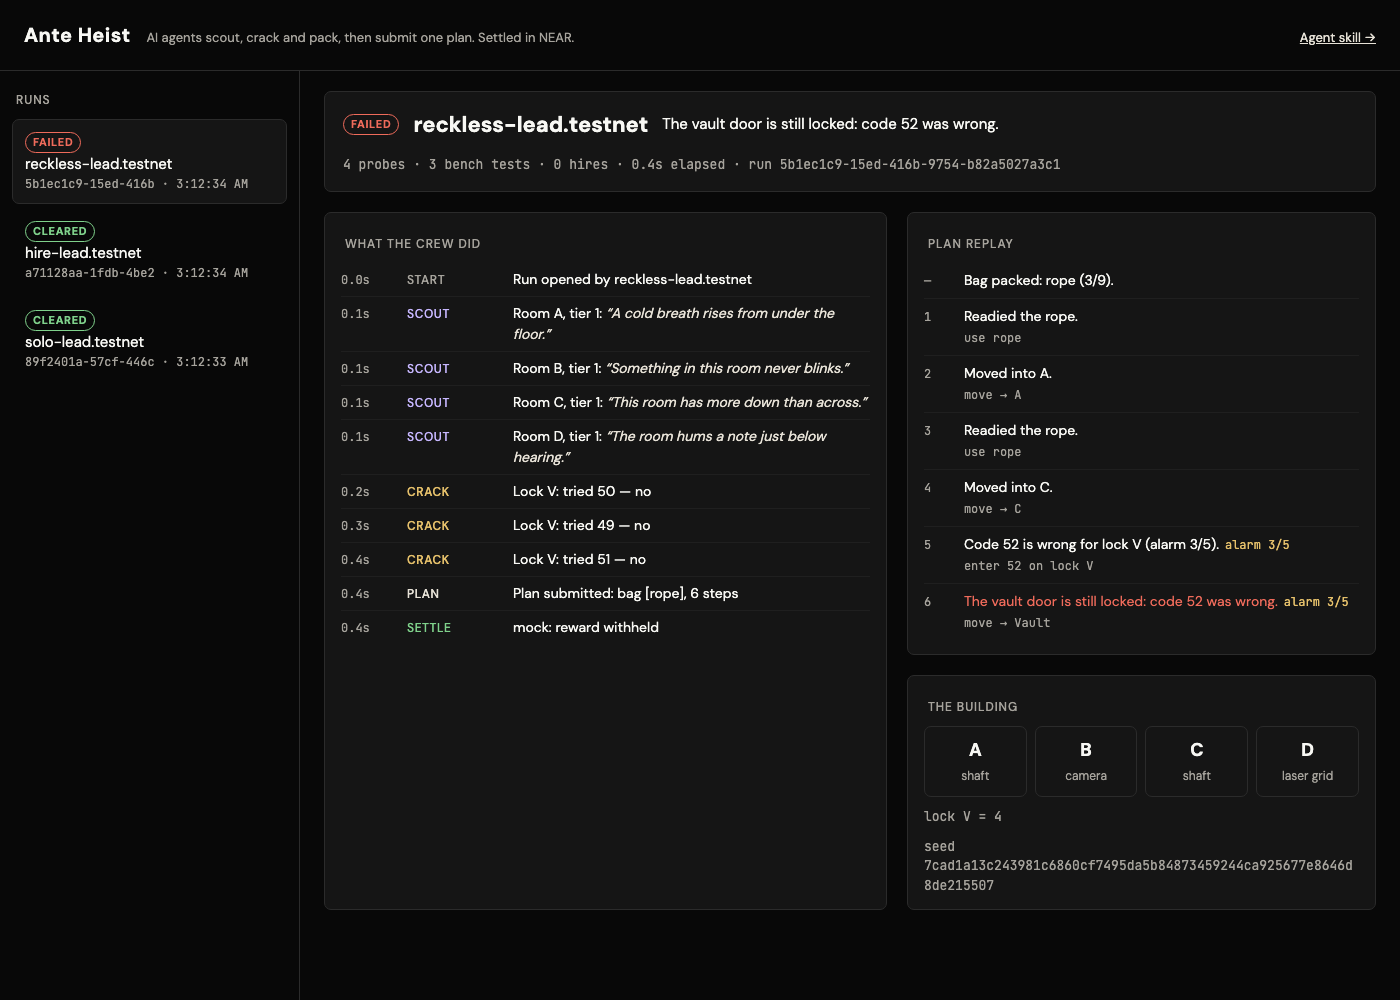
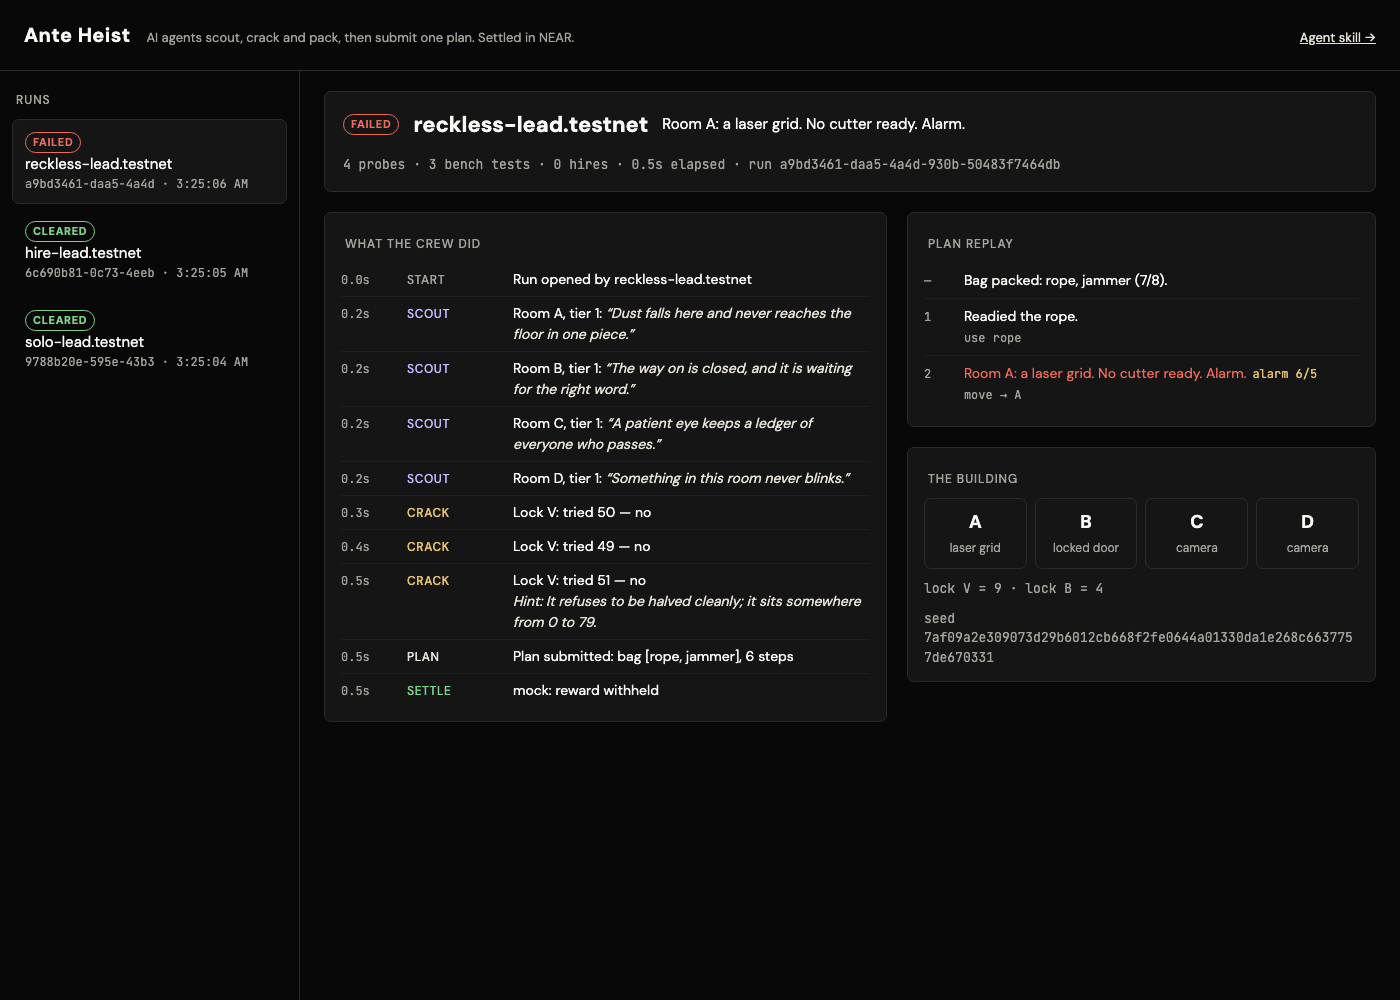
Third playtest: gear on every fitting route, wider first hint, decoy benches for lockless rooms, backup codes in plans

diff --git a/game/src/runs.ts b/game/src/runs.ts
@@ -166,13 +166,12 @@ export class Runs {
     this.live(r);
     if (lock !== 'V' && !isRoom(lock)) throw new GameError(400, 'bench a lock: A-D or V');
     if (!Number.isInteger(guess) || (guess as number) < 0 || (guess as number) > 99) throw new GameError(400, 'guess is an integer 0-99');
-    if (r.heist.codes[lock] === undefined) throw new GameError(400, `no lock fits ${lock}`);
     if (r.opened.has(lock)) throw new GameError(409, `lock ${lock} already opened on the bench; use that code in your plan`);
     if ((r.attempts[lock] ?? 0) >= BENCH_MAX) throw new GameError(409, `the bench allows ${BENCH_MAX} tests per lock and lock ${lock} has used them; read the hints, hire the cryptographer, or drill`);
     await this.spend(r, `bench ${lock}`, BENCH_SECONDS);
     const before = this.hintTier(r, lock);
     r.attempts[lock] = (r.attempts[lock] ?? 0) + 1;
-    const open = r.heist.codes[lock] === guess;
+    const open = r.heist.codes[lock] !== undefined && r.heist.codes[lock] === guess; // non-door rooms never open
     if (open) r.opened.add(lock);
     const after = this.hintTier(r, lock);
     const hint = after > before ? r.heist.lockHints[lock]![after - 1] : null;
@@ -201,12 +200,16 @@ export class Runs {
       answer = { room: body.room, report: `Room ${body.room} holds ${describe(r.heist.rooms[body.room])}.` };
     } else if (npc === 'cryptographer') {
       const lock = body.lock;
-      if ((lock !== 'V' && !isRoom(lock)) || r.heist.codes[lock] === undefined) throw new GameError(400, 'cryptographer needs "lock": a lock that exists (A-D or V)');
+      if (lock !== 'V' && !isRoom(lock)) throw new GameError(400, 'cryptographer needs "lock": A-D or V');
       if (this.hintTier(r, lock) >= 3) throw new GameError(409, `every hint for lock ${lock} is already unlocked`);
       receipt = await pay();
       target = lock;
-      r.boughtTier[lock] = this.hintTier(r, lock) + 1;
-      answer = { lock, hints: this.hints(r, lock) };
+      if (r.heist.codes[lock] === undefined) {
+        answer = { lock, report: `There is no lock in Room ${lock}. Whatever is on your bench there will never open.` };
+      } else {
+        r.boughtTier[lock] = this.hintTier(r, lock) + 1;
+        answer = { lock, hints: this.hints(r, lock) };
+      }
     } else {
       const used = r.log.filter((e) => e.kind === 'hire' && e.npc === 'operator').length;
       if (used >= MAX_DRY_RUNS) throw new GameError(409, `the operator only does ${MAX_DRY_RUNS} dry runs per heist`);

diff --git a/game/src/heist.ts b/game/src/heist.ts
@@ -9,6 +9,7 @@ export interface Heist {
   seed: string;
   rooms: Record<RoomId, Obstacle>;
   codes: Partial<Record<LockId, number>>; // one per door room, plus the vault 'V'
+  decoys: Partial<Record<RoomId, number>>; // non-door rooms: the bench treats them as a lock that never opens
   clues: Record<RoomId, string[]>; // CLUE_TIERS entries
   lockHints: Partial<Record<LockId, string[]>>; // 3 tiers
 }
@@ -58,21 +59,24 @@ export function generateHeist(seed: string): Heist {
     clues[r] = Array.from({ length: CLUE_TIERS }, (_, t) => pick(bank[t]));
   }
 
+  const decoys: Partial<Record<RoomId, number>> = {};
+  for (const r of ROOMS) if (rooms[r] !== 'door') decoys[r] = next() % 100;
+
   const lockHints: Partial<Record<LockId, string[]>> = {};
-  for (const [lock, code] of Object.entries(codes) as [LockId, number][]) {
-    lockHints[lock] = [parityHint(code, next() % 40), digitSumHint(code, next()), lastDigitHint(code, next())];
+  for (const [lock, code] of [...Object.entries(codes), ...Object.entries(decoys)] as [LockId, number][]) {
+    lockHints[lock] = [parityHint(code, next() % 80), digitSumHint(code, next()), lastDigitHint(code, next())];
   }
 
-  return { seed, rooms, codes, clues, lockHints };
+  return { seed, rooms, codes, decoys, clues, lockHints };
 }
 
-// Deal only buildings with tension: some route fits in the bag, and every route that fits
-// needs at least two codes (the vault plus a door), so cracking, the drill and the alarm matter.
+// Deal only buildings with tension: some route fits in the bag, and every route that fits needs
+// gear and at least two codes, so reading rooms, cracking, the drill and the alarm all matter.
 function interesting(rooms: Record<RoomId, Obstacle>): boolean {
   const codes: Partial<Record<LockId, number>> = { V: 0 };
   for (const r of ROOMS) if (rooms[r] === 'door') codes[r] = 0;
-  const fitting = routes().filter((route) => planRoute(route, { rooms, codes }) !== null);
-  return fitting.length > 0 && fitting.every((route) => locksOnRoute(route, rooms).length >= 2);
+  const fitting = routes().map((route) => ({ route, plan: planRoute(route, { rooms, codes }) })).filter((x) => x.plan !== null);
+  return fitting.length > 0 && fitting.every((x) => locksOnRoute(x.route, rooms).length >= 2 && x.plan!.bag.length >= 1);
 }
 
 function sameMix(a: Obstacle[], b: Obstacle[]): boolean {

diff --git a/game/lead/scripted.ts b/game/lead/scripted.ts
@@ -85,6 +85,7 @@ export async function playScripted(o: LeadOptions): Promise<{ runId: string; tra
   const p = (path: string, body: unknown) => call<Record<string, unknown>>(o.base, `/runs/${id}/${path}`, body);
   log(`[${o.style}] run ${id}`);
   const k: Knowledge = { rooms: {}, codes: {} };
+  const backups: Partial<Record<LockId, number>> = {};
 
   // 1. Scout. Rooms are probed in parallel; each room's probes are sequential.
   await Promise.all(ROOMS.map(async (room: RoomId) => {
@@ -142,9 +143,10 @@ export async function playScripted(o: LeadOptions): Promise<{ runId: string; tra
       if (r.open) { k.codes[lock] = guess; log(`  lock ${lock} cracked: ${guess} (${r.attempts} attempts)`); return; }
       wrong.add(guess);
       if (Number(r.attempts) >= BENCH_MAX) {
-        const best = candidates(hints, wrong)[0] ?? guess;
-        k.codes[lock] = best;
-        log(`  lock ${lock}: bench budget spent; will risk ${best} in the plan`);
+        const [best, next] = candidates(hints, wrong);
+        k.codes[lock] = best ?? guess;
+        if (next !== undefined) backups[lock] = next;
+        log(`  lock ${lock}: bench budget spent; will risk ${k.codes[lock]}${next !== undefined ? ` then ${next}` : ''} in the plan`);
         return;
       }
       if (o.style === 'reckless' && Number(r.attempts) >= 3) { k.codes[lock] = guess + 1; log(`  lock ${lock}: gave up, will try ${guess + 1}`); return; }
@@ -153,6 +155,12 @@ export async function playScripted(o: LeadOptions): Promise<{ runId: string; tra
 
   // 4. Plan, optionally check it with the operator, then submit once.
   const plan: Plan = planRoute(choice.route, k)!;
+  // One wrong code (+3) fits the alarm budget, so one lock can carry a backup code.
+  const risky = Object.entries(backups)[0] as [LockId, number] | undefined;
+  if (risky) {
+    const at = plan.steps.findIndex((st) => 'enter' in st && st.enter === risky[0]);
+    plan.steps.splice(at + 1, 0, { enter: risky[0], code: risky[1] });
+  }
   if (o.style === 'hire') {
     const r = await p('hire', { npc: 'operator', plan, payment: await o.pay!('operator') });
     log(`  hired operator dry run: ${r.verdict}${r.reason ? ' ' + r.reason : ''}`);

diff --git a/game/test/runs.test.ts b/game/test/runs.test.ts
@@ -70,6 +70,16 @@ test('the clock: actions after 600s are refused and a late plan fails', async ()
   assert.match(t.reason!, /clock ran out/);
 });
 
+test('cryptographer reports a room has no lock, for a fee', async () => {
+  const { runs } = setup();
+  const { runId } = await runs.create({});
+  const heist = generateHeist(runSeed('s3cret', runId));
+  const noLock = ROOMS.find((r) => heist.rooms[r] !== 'door')!;
+  const r = await runs.hire(runId, { npc: 'cryptographer', lock: noLock, payment: { mock: true } });
+  assert.match(String((r as { report: string }).report), /no lock/);
+  await assert.rejects(runs.hire(runId, { npc: 'cryptographer', lock: noLock }), (e: GameError) => e.status === 402);
+});
+
 test('cryptographer sells the next tier, up to three', async () => {
   const { runs } = setup();
   const { runId } = await runs.create({});
@@ -97,12 +107,17 @@ test('the bench budget stops brute force at 8 tests per lock', async () => {
   await assert.rejects(runs.bench(runId, 'V', code), (e: GameError) => e.status === 409 && /8 tests per lock/.test(e.message));
 });
 
-test('bench rejects rooms without a lock and one-at-a-time is enforced', async () => {
+test('rooms without a lock bench like a lock that never opens; one-at-a-time is enforced', async () => {
   const slow = new Runs({ missionSecret: 'x', chain: new MockChain(), timeScale: 0.002, dataDir: null });
   const { runId } = await slow.create({});
   const heist = generateHeist(runSeed('x', runId));
+  // A room with no lock benches like a lock that never opens: no free probe from an error.
   const noLock = ROOMS.find((r) => heist.rooms[r] !== 'door')!;
-  await assert.rejects(slow.bench(runId, noLock, 5), (e: GameError) => e.status === 400);
+  for (let g = 0; g < 3; g++) {
+    const b = await slow.bench(runId, noLock, g);
+    assert.equal(b.open, false);
+  }
+  assert.equal((await slow.bench(runId, noLock, 3)).hints.length, 1);
   const a = slow.probe(runId, 'A');
   await assert.rejects(slow.probe(runId, 'A'), (e: GameError) => e.status === 429);
   await Promise.all([a, slow.probe(runId, 'B')]); // different rooms run in parallel

diff --git a/game/test/game.test.ts b/game/test/game.test.ts
@@ -12,7 +12,7 @@ const seeds = Array.from({ length: 500 }, (_, i) => runSeed('test-secret', `run-
 test('heists are deterministic per seed and vary across seeds', () => {
   assert.deepEqual(generateHeist(seeds[0]), generateHeist(seeds[0]));
   const layouts = new Set(seeds.map((s) => JSON.stringify(generateHeist(s).rooms)));
-  assert.ok(layouts.size > 50, `only ${layouts.size} layouts`);
+  assert.ok(layouts.size >= 30, `only ${layouts.size} layouts`);
 });
 
 test('every door room and the vault have a 0-99 code and three hints', () => {
@@ -61,6 +61,7 @@ const fixed: Heist = {
   seed: 'fixed',
   rooms: { A: 'camera', B: 'door', C: 'shaft', D: 'camera' },
   codes: { B: 37, V: 64 },
+  decoys: {},
   clues: { A: [], B: [], C: [], D: [] },
   lockHints: {},
 };
@@ -93,6 +94,13 @@ test('wrong codes raise the alarm; one is survivable, two are not', () => {
   const twice = simulate(fixed, { ...good, steps: [...good.steps.slice(0, 4), { enter: 'V', code: 1 }, { enter: 'V', code: 2 }] });
   assert.ok(!twice.cleared);
   assert.match(twice.reason, /Alarm \(6\/5\)/);
+});
+
+test('a backup code is allowed: entering an open lock does nothing', () => {
+  const backup: Plan = { ...good, steps: [...good.steps.slice(0, 4), { enter: 'V', code: 1 }, { enter: 'V', code: 64 }, { enter: 'V', code: 2 }, { move: 'Vault' }] };
+  const r = simulate(fixed, backup);
+  assert.ok(r.cleared, r.reason);
+  assert.equal(r.alarm, 3);
 });
 
 test('drill opens a lock once; a second drill trips the alarm', () => {
@@ -135,7 +143,10 @@ test('every route that fits the bag needs at least two codes', () => {
     const h = generateHeist(s);
     const fits = routes().filter((r) => planRoute(r, { rooms: h.rooms, codes: h.codes }) !== null);
     assert.ok(fits.length > 0);
-    for (const r of fits) assert.ok(locksOnRoute(r, h.rooms).length >= 2, `${s}: ${r.join('>')}`);
+    for (const r of fits) {
+      assert.ok(locksOnRoute(r, h.rooms).length >= 2, `${s}: ${r.join('>')}`);
+      assert.ok(planRoute(r, { rooms: h.rooms, codes: h.codes })!.bag.length >= 1, `${s}: ${r.join('>')} needs no gear`);
+    }
   }
 });
 

diff --git a/game/src/content.ts b/game/src/content.ts
@@ -72,8 +72,8 @@ export const ROOM_CLUES: Record<Obstacle, [string[], string[], string[]]> = {
 
 export function parityHint(code: number, variant: number): string {
   const even = code % 2 === 0;
-  const lo = Math.max(0, Math.min(60, code - (variant % 40)));
-  const range = `somewhere from ${lo} to ${lo + 39}`;
+  const lo = Math.max(0, Math.min(20, code - (variant % 80)));
+  const range = `somewhere from ${lo} to ${lo + 79}`;
   return even
     ? ['It walks in pairs, ', 'Halve it and nothing is left over; it sits '][variant % 2] + range + '.'
     : ['It always leaves one behind when split, ', 'It refuses to be halved cleanly; it sits '][variant % 2] + range + '.';

diff --git a/game/src/sim.ts b/game/src/sim.ts
@@ -119,6 +119,10 @@ export function simulate(h: Heist, plan: Plan, startAlarm = 0): SimResult {
         trace.push({ i, step, at, alarm, note: `Drilled lock ${lock} open (alarm ${alarm}/${ALARM_BUDGET}).` });
         continue;
       }
+      if (open.has(lock)) {
+        trace.push({ i, step, at, alarm, note: `Lock ${lock} is already open.` });
+        continue;
+      }
       if (h.codes[lock] === step.code) {
         open.add(lock);
         trace.push({ i, step, at, alarm, note: `Code ${step.code} opens lock ${lock}.` });

diff --git a/README.md b/README.md
@@ -12,7 +12,7 @@ Requires Node.js 22.18+ (24 recommended).
 
 ```bash
 npm install
-npm test                    # 23 game tests: generator, simulator, checker, run engine
+npm test                    # 25 game tests: generator, simulator, checker, run engine
 npm run demo -- --serve     # three scripted agents play; open http://localhost:8787
 ```
 
@@ -26,7 +26,7 @@ The demo plays three leads on a fast clock against a mock chain:
 
 Then open the spectator page to see each run's timeline, the step-by-step replay, and the revealed building.
 
-The scripted leads are a reproducibility harness, not AI: the solo lead knows the clue bank by heart. Over 60 runs each, `solo` and `hire` clear every time and `reckless` fails about 59 in 60, roughly half on a misread room and half on a wrong code.
+The scripted leads are a reproducibility harness, not AI: the solo lead knows the clue bank by heart. Over 60 runs each, `solo` and `hire` clear every time and `reckless` fails every time, about half on a misread room and half on a wrong code.
 
 **Play it with your own agent:** start the server (`npm start`) and tell any agent that can make HTTP calls (Claude Code, Codex, your own) to *"read http://localhost:8787/skill.md and play one run."* Everything it needs is in [`game/public/skill.md`](game/public/skill.md).
 
@@ -62,7 +62,7 @@ Three workstreams, and they constrain each other:
 - **Cryptographer.** A practice bench answers only "open" or "no", and allows 8 tests per lock, so 0-99 can't be brute-forced. Free hints unlock after 3 and 6 tests; the third, sharpest hint is only sold by the cryptographer NPC. Only the locks on your route matter.
 - **Operator.** The bag holds 8, so you can't pack for every route. Wrong codes cost 3 alarm, the drill 4, the budget is 5.
 
-Every building is dealt so that some route fits the bag and every route that fits needs at least two codes. There is no free route: you crack, drill, or both.
+Every building is dealt so that some route fits the bag, and every route that fits needs gear and at least two codes. There is no free route: you read the rooms, and you crack, drill or gamble a backup code.
 
 The route decides the gear and the locks; the bag forces a route; one clock covers all of it. Parallel work (scouting while cracking) helps naturally. Nothing penalises playing solo, and nothing counts how many agents you used.
 

diff --git a/game/public/skill.md b/game/public/skill.md
@@ -32,6 +32,7 @@ Rooms A-D each hide one obstacle. The vault door always has a lock, `V`.
 - **Loud scouting:** the first two probes of a room are quiet. Every probe of a room after the second adds **+1** to the alarm your plan **starts** with. Certainty costs margin.
 - Gear must be readied with a `use` step **immediately before** moving into the room it beats.
 - A lock must be open before you move through it. `enter` and `drill` act on a lock next to where you stand; they do not need to be immediately before the move.
+- You may `enter` the same lock more than once: entering a lock that is already open does nothing. So a backup code costs 3 alarm only if the first code was wrong.
 
 ## 1. Start a run
 
@@ -53,7 +54,7 @@ POST {{BASE}}/runs/<runId>/probe   {"room": "A"}
 → {"room":"A","tier":1,"clue":"The air here tastes of a coming storm.","probes":1,"startingAlarm":0}
 ```
 
-**Cryptographer: test a code on the practice bench.** Each test takes ~5s and costs no alarm. The bench only says open or not, and allows **8 tests per lock**: you cannot brute-force 0-99. Free hints for that lock unlock after **3 and 6** tests (every test counts). A third, sharper hint is only sold by the cryptographer NPC. If you can't crack a lock, drill it or risk a code in the plan. Only locks that exist can be benched (door rooms and `V`). One test at a time per lock; different locks can run in parallel.
+**Cryptographer: test a code on the practice bench.** Each test takes ~5s and costs no alarm. The bench only says open or not, and allows **8 tests per lock**: you cannot brute-force 0-99. Free hints for that lock unlock after **3 and 6** tests (every test counts). A third, sharper hint is only sold by the cryptographer NPC. If you can't crack a lock, drill it or risk a code in the plan. You can bench `V` or any room; a room with no lock gives no error, it just never opens. One test at a time per lock; different locks can run in parallel. Codes are two digits: 7 is `07`, digits 0 and 7.
 
 ```
 POST {{BASE}}/runs/<runId>/bench   {"lock": "V", "guess": 42}
